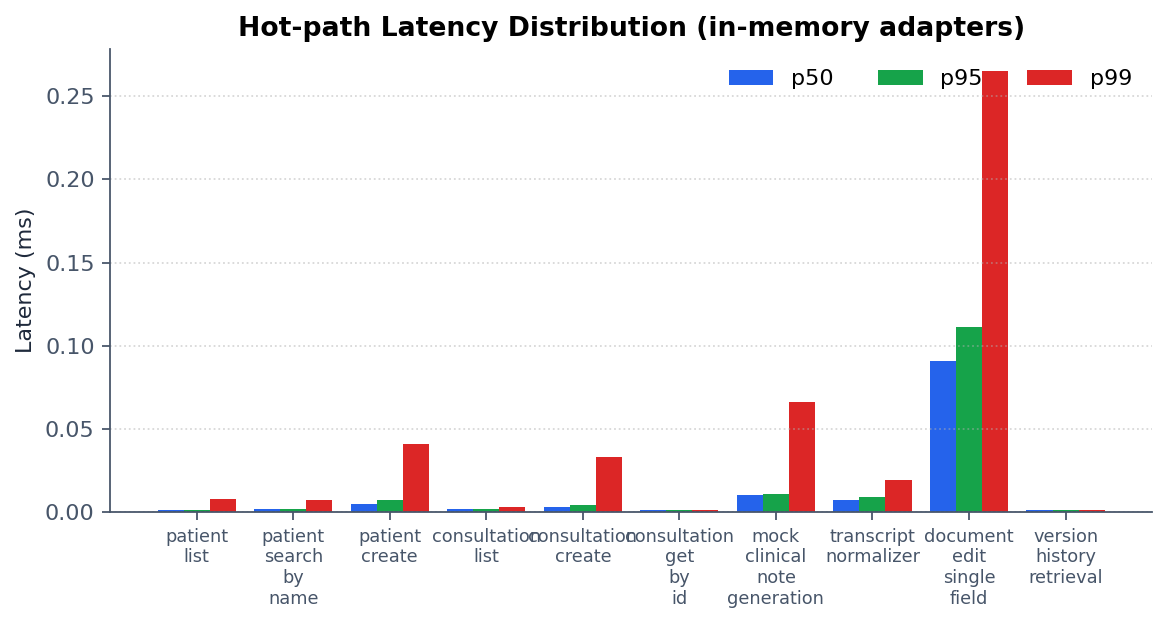
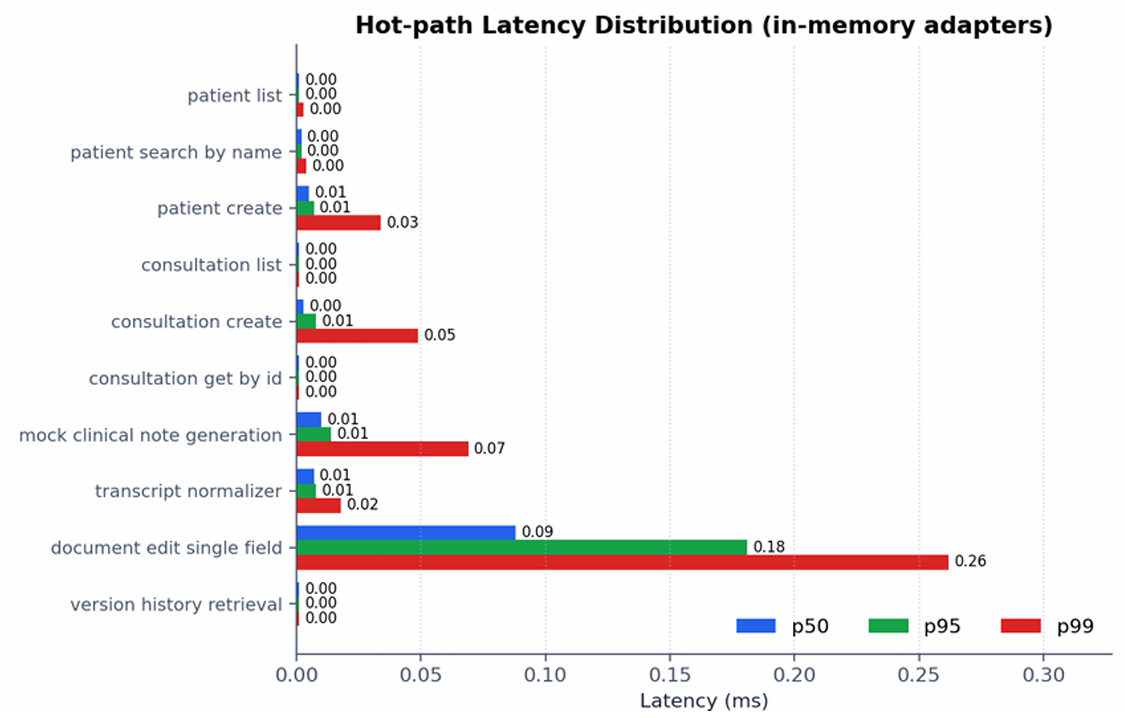
Update report validation discussion and references

diff --git a/overleaf-report/sections/07-validation.tex b/overleaf-report/sections/07-validation.tex
@@ -33,7 +33,53 @@ Manual UI & 10 & Login, PDF download, speaker layout, logout, and browser-level 
 \label{tab:validation-tiers}
 \end{table}
 
-The module-level inventory is retained in Appendix~\ref{app:test-inventory}. Raw benchmark numbers are listed in Appendix~\ref{app:benchmark-results}, the manual browser checklist in Appendix~\ref{app:manual-ui}, the hallucination matrix in Appendix~\ref{app:hallucination-matrix}, and the hardware envelope in Appendix~\ref{app:hardware-envelope}.
+The module-level inventory is retained in Appendix~\ref{app:test-inventory}. Raw benchmark numbers are listed in Appendix~\ref{app:benchmark-results}, the manual browser checklist in Appendix~\ref{app:manual-ui}, the AI safety matrix in Appendix~\ref{app:ai-safety-matrix}, and the hardware envelope in Appendix~\ref{app:hardware-envelope}.
+
+\begin{figure}[htbp]
+\centering
+\optionalgraphic[width=0.78\textwidth]{assets/charts/test_distribution.png}
+\caption{Automated validation distribution across unit, integration, smoke, stress, and benchmark tiers.}
+\label{fig:test-distribution}
+\end{figure}
+
+\subsection{Requirements Coverage}
+
+The validation evidence is tied back to the requirements from Section~4 in Table~\ref{tab:requirements-coverage}. The table distinguishes requirements that were fully implemented from requirements that were deliberately left as deployment hardening or future work, so the report does not overclaim beyond the implemented system.
+
+\begingroup
+\scriptsize
+\begin{longtable}{@{}P{0.15\textwidth}P{0.18\textwidth}P{0.18\textwidth}P{0.37\textwidth}@{}}
+\caption{Requirements traceability and validation evidence.}\label{tab:requirements-coverage}\\
+\TableTopRule
+\rowcolor{VertexTableBlue}
+\VertexTableHead{Requirement} & \VertexTableHead{Status} & \VertexTableHead{Evidence} & \VertexTableHead{How the report addresses it} \\
+\TableMidRule
+\rowcolor{VertexTableStripe}
+F-1 & Implemented & Sections 5--7 & Doctor dashboard, patient selection, consultation creation, and list views support the consultation queue. \\
+F-2--F-3 & Implemented & Sections 5--7 & Browser audio capture and the Faster-Whisper sidecar provide local speech-to-text processing. \\
+\rowcolor{VertexTableStripe}
+F-4--F-5 & Implemented & Sections 5--7 & Local LLM orchestration generates structured clinical notes and prescription drafts for doctor review. \\
+F-6 & Implemented & Sections 5--7, Appendix~\ref{app:manual-ui} & The review page lets doctors edit, approve, or reject generated clinical content. \\
+\rowcolor{VertexTableStripe}
+F-7--F-8 & Implemented with deployment caveat & Sections 6--7 & ReportLab PDF generation and SMTP email delivery are implemented; production security depends on configured SMTP/TLS infrastructure. \\
+F-9--F-10 & Implemented & Sections 5--7 & Live transcript handling and past-consultation views are covered by the consultation and UI workflows. \\
+\rowcolor{VertexTableStripe}
+F-11 & Future extension & Section 8 & Cross-doctor sharing is supported conceptually by PDF/email boundaries but was not a primary implemented workflow. \\
+NF-1, NF-10 & Implemented & Sections 3, 5, 7 & Whisper and Ollama run locally, keeping AI processing away from third-party cloud services. \\
+\rowcolor{VertexTableStripe}
+NF-2 & Implemented & Sections 5--7 & JWT authentication, HTTP-only cookies, role checks, and security tests cover access control. \\
+NF-3 & Partially addressed & Sections 5, 8 & Password hashing and token handling are implemented; TLS termination, at-rest encryption, and service-to-service protection remain deployment hardening items. \\
+\rowcolor{VertexTableStripe}
+NF-4 & Implemented & Sections 5--6 & Ports, adapters, application services, repositories, and sidecar AI services keep components replaceable. \\
+NF-5--NF-6 & Implemented & Sections 5--7 & MySQL/MongoDB persistence, versioning, and audit logging support reliable storage and traceability. \\
+\rowcolor{VertexTableStripe}
+NF-7--NF-8 & Implemented and measured & Table~\ref{tab:validation-tiers}, Appendix~\ref{app:benchmark-results} & Manual UI checks and benchmark/hardware results validate usability concerns and performance limits. \\
+NF-9 & Future extension & Section 8 & Retention configuration and secure deletion are identified as governance extensions. \\
+\rowcolor{VertexTableStripe}
+NF-11 & Implemented by workflow design & Sections 1, 5, 8 & The doctor remains the final decision-maker before approval, PDF export, or patient communication. \\
+\TableBottomRule
+\end{longtable}
+\endgroup
 
 \subsection{LLM Hallucination Resistance}
 
@@ -47,13 +93,7 @@ Three failure classes are explicitly guarded:
   \item \textbf{Cross-consultation leakage:} text from a previous patient surfacing in the current note is prevented by stateless per-call prompts and verified by isolation tests that interleave generations from two synthetic patients.
 \end{enumerate}
 
-\texttt{test\_real\_llm.py} re-asserts the same invariants against the live Ollama daemon and falls back gracefully to the mock when the daemon is unreachable.
-
-\begin{figure}[htbp]
-\centering
-\optionalgraphic[width=0.72\textwidth]{assets/charts/hallucination_matrix.png}
-\caption{Hallucination guard matrix.}
-\end{figure}
+\texttt{test\_real\_llm.py} re-asserts the same invariants against the live Ollama daemon and falls back gracefully to the mock when the daemon is unreachable. The detailed AI and ASR safety matrix is kept in Appendix~\ref{app:ai-safety-matrix}.
 
 \subsection{ASR Robustness}
 
@@ -88,6 +128,13 @@ qwen3:4b & 4.0 B & 3.2 GB & 3.6 s & 71\% & 6/30 & Fast fallback, but too small f
 \label{tab:model-selection}
 \end{table}
 
+\begin{figure}[htbp]
+\centering
+\optionalgraphic[width=0.82\textwidth]{assets/charts/model_comparison.png}
+\caption{Model comparison visualization for the evaluated local Ollama candidates.}
+\label{fig:model-comparison}
+\end{figure}
+
 Qwen3:8b was selected because it achieved 100\% JSON validity and zero hallucinations within the 8 GB VRAM budget. Phi3:medium was more accurate than smaller models but exceeded the budget, while the 4B model traded too much accuracy for speed. The choice is not hard-wired: the deployed model is read from \texttt{OLLAMA\_MODEL}, and \texttt{test\_real\_llm.py} re-validates whichever model Ollama is currently serving.
 
 \subsection{Hardware Constraints and Deployment Envelope}
@@ -102,7 +149,14 @@ Latency varies by host, and the Surface and MacBook are roughly three to four ti
 
 The benchmark suite uses Python's \texttt{time.perf\_counter} to time 10 hot paths over 100 to 500 iterations each, recording p50, p95, and p99 latency. Each measurement has an explicit upper-bound assertion so a regression fails the build instead of silently degrading performance.
 
-The numerical results are listed in Appendix~\ref{app:benchmark-results}, which keeps the evidence inspectable without adding another chart to the main report.
+The numerical results are listed in Appendix~\ref{app:benchmark-results}, and Figure~\ref{fig:benchmark-latency} summarizes the latency distribution visually.
+
+\begin{figure}[htbp]
+\centering
+\optionalgraphic[width=0.84\textwidth]{assets/charts/benchmark_latency.png}
+\caption{Benchmark latency distribution for the measured hot-path operations.}
+\label{fig:benchmark-latency}
+\end{figure}
 
 The results are favorable: every operation finishes in well under a millisecond at the 99th percentile. This indicates that the application layer is not the bottleneck. Production latency will be higher because real MySQL and MongoDB adapters add network and disk I/O, but the benchmark establishes that the domain logic imposes negligible overhead.
 

diff --git a/overleaf-report/sections/08-discussion.tex b/overleaf-report/sections/08-discussion.tex
@@ -1,0 +1,13 @@
+\section{Discussion}
+
+The group is satisfied with the final outcome because Med Flow now demonstrates the full consultation-support path promised by the project scope: a doctor can work with patient information, start a consultation, capture audio, obtain a transcript, generate structured clinical material, review and edit the AI output, approve the result, export a PDF, and send follow-up communication. The implementation also keeps the central safety boundary visible: AI assists the workflow, but the doctor remains responsible for approval and communication.
+
+The most important project decision was narrowing the system around consultation documentation rather than trying to build a complete outpatient administration platform. Scheduling, advanced retention governance, and production deployment hardening were treated as integration or future-work topics. This focus made the core workflow achievable within the semester while still aligning with the requirements for local AI processing, role-based access, modularity, persistence, auditability, and validation.
+
+The sprint-based workflow supported that focus. Trello gave the group a practical way to split work across authentication, patient and consultation management, transcription, LLM orchestration, PDF generation, email, UI, and testing. The architecture also benefited from component-based thinking: FastAPI routes, application services, domain contracts, repository ports, infrastructure adapters, and local AI services can be replaced or extended independently. This modularity is particularly important because transcription and LLM tools evolve quickly, and the selected model should remain a configuration choice rather than a fixed architectural assumption.
+
+The validation results are strong for a semester project. The automated suite covers unit, integration, smoke, stress, and benchmark tests, while manual UI checks cover browser interactions that were not yet automated. The test distribution, model comparison, and benchmark figures in Section~7 make the evidence easier to inspect, and the requirement traceability table explains which requirements are implemented, partially addressed, or intentionally reserved for future work.
+
+The main limitation is deployment maturity. Local execution reduces dependence on cloud AI providers, but a real clinic deployment would still need TLS termination, stronger at-rest encryption, service-to-service authentication, retention enforcement, backup policy, and operational monitoring. OWASP guidance for service-oriented systems recommends treating these controls as part of the deployed architecture rather than as afterthoughts~[12]. Future iterations should also replace the manual UI checklist with Playwright end-to-end tests, evaluate load behavior against real MySQL and MongoDB deployments, and validate transcription quality against an annotated clinical audio corpus.
+
+In summary, Med Flow does not claim to be a certified medical product. It is a working and validated software engineering solution that shows how local AI, component-based architecture, and human-in-the-loop review can be combined into a privacy-conscious clinical documentation workflow.

diff --git a/overleaf-report/sections/02-methodology.tex b/overleaf-report/sections/02-methodology.tex
@@ -21,6 +21,12 @@ GitHub was used to share and manage the code, allowing the team to collaborate e
 \caption{Sprint planning and Trello workflow overview.}
 \end{figure}
 
+\subsection{Scope Context and Source Selection}
+
+During early scoping, the team compared several possible project directions with public SDU and technology sources. The supplied SDU researcher pages for Jacek Fiutowski\footnote{\url{https://portal.findresearcher.sdu.dk/en/persons/fiutowski}}, Casper H\o{}gh Kunstmann\footnote{\url{https://portal.findresearcher.sdu.dk/en/persons/casper-h\%C3\%B8gh-kunstmann}}, and Ayoub Laghrissi\footnote{\url{https://portal.findresearcher.sdu.dk/en/persons/ayoub-laghrissi}} show research activity around nanophotonics, sensing, imaging, microfluidics, nanomaterials, and hyperspectral or spectroscopic monitoring~[6,7,10]. NanoChem describes nanoscale chemical imaging facilities and use cases in materials, environmental, and medico-oriented analysis\footnote{\url{https://www.nanochem.dk/}}~[8]. The imec SNAPSCAN VNIR page describes a hyperspectral evaluation system for laboratory research, food inspection, medical imaging, and material characterization\footnote{\url{https://www.imechyperspectral.com/en/cameras/snapscan-vnir}}~[9], while the DeepHS-Fruit-v2 dataset listing\footnote{\url{https://paperswithcode.com/dataset/deephs-fruit-v2}} represents a dataset-driven benchmark context~[11].
+
+These sources are relevant to the semester context because they illustrate data-intensive sensing and AI workflows, but they are not used as evidence for Med Flow's clinical performance. Instead, they helped clarify the difference between an imaging-model project and this report's actual focus: a local-first software system for consultation audio, transcription, doctor review, document generation, and auditability.
+
 \subsection{Application of Course Knowledge}
 
 \begin{itemize}

diff --git a/overleaf-report/sections/references.tex b/overleaf-report/sections/references.tex
@@ -7,4 +7,11 @@
   \item European Union. ``General Data Protection Regulation, Article 9: Processing of special categories of personal data.'' Available at: \href{https://gdpr-info.eu/art-9-gdpr/}{GDPR Article 9 text}.
   \item U.S. Department of Health and Human Services. ``Summary of the HIPAA Privacy Rule.'' Available at: \href{https://www.hhs.gov/hipaa/for-professionals/privacy/laws-regulations/index.html}{HHS Privacy Rule summary}.
   \item National Institute of Standards and Technology. ``AI Risk Management Framework.'' Available at: \href{https://www.nist.gov/itl/ai-risk-management-framework}{NIST AI RMF}.
+  \item University of Southern Denmark. ``Jacek Fiutowski.'' SDU Research Portal. Available at: \href{https://portal.findresearcher.sdu.dk/en/persons/fiutowski}{SDU researcher profile}.
+  \item University of Southern Denmark. ``Casper H\o{}gh Kunstmann.'' SDU Research Portal. Available at: \href{https://portal.findresearcher.sdu.dk/en/persons/casper-h\%C3\%B8gh-kunstmann}{SDU researcher profile}.
+  \item NanoChem. ``Chemical imaging on the nanoscale.'' Available at: \href{https://www.nanochem.dk/}{NanoChem website}.
+  \item imec hyperspectral. ``SNAPSCAN VNIR evaluation system.'' Available at: \href{https://www.imechyperspectral.com/en/cameras/snapscan-vnir}{SNAPSCAN VNIR page}.
+  \item University of Southern Denmark. ``Ayoub Laghrissi.'' SDU Research Portal. Available at: \href{https://portal.findresearcher.sdu.dk/en/persons/ayoub-laghrissi}{SDU researcher profile}.
+  \item Papers with Code. ``DeepHS-Fruit-v2 dataset page.'' Available at: \href{https://paperswithcode.com/dataset/deephs-fruit-v2}{Papers with Code dataset listing}.
+  \item OWASP Foundation. ``Microservices Security Cheat Sheet.'' Available at: \href{https://cheatsheetseries.owasp.org/cheatsheets/Microservices_Security_Cheat_Sheet.html}{OWASP cheat sheet}.
 \end{enumerate}

diff --git a/overleaf-report/sections/09-conclusion.tex b/overleaf-report/sections/09-conclusion.tex
@@ -1,0 +1,11 @@
+\section{Conclusion}
+
+Med Flow demonstrates how a local-first, AI-assisted system can support outpatient consultation documentation without removing clinical responsibility from the doctor. The project combines consultation recording, speech-to-text transcription, structured clinical draft generation, Suggestive Mode, review and approval workflows, PDF generation, email communication, and auditability.
+
+The architecture is intentionally component-based. FastAPI routes, application services, domain contracts, infrastructure adapters, AI services, persistence layers, and notification tools are separated so the system can evolve without forcing every change through a monolithic structure. The dual-database design supports both reliable relational records and flexible document-oriented AI artifacts.
+
+The validation package supports the core engineering claims of the project. Automated tests, stress tests, benchmark tests, hallucination checks, ASR artifact checks, manual UI validation, and hardware-envelope testing show that the implementation is testable, measurable, and suitable as a foundation for further development. The requirement traceability table shows that the central must-have requirements were implemented, while deployment security, retention policy, cross-doctor sharing, and broader end-to-end automation remain clear future-work items.
+
+\begin{summarybox}
+The project is best understood as a controlled AI documentation workflow: local AI accelerates transcription, drafting, and review, while the doctor remains the final decision-maker for clinical approval, PDF export, and patient communication.
+\end{summarybox}

diff --git a/overleaf-report/sections/03-problem-analysis.tex b/overleaf-report/sections/03-problem-analysis.tex
@@ -24,6 +24,8 @@ The system also handles diverse data types: live audio metadata, raw speech-to-t
 
 Forcing these conflicting data types into one database model can create performance and maintainability problems. The system must therefore balance strict relational consistency for user administration and patient records with dynamic schema flexibility for AI data processing.
 
+The same architectural lesson appears in other data-intensive engineering domains: sensing and hyperspectral systems often separate acquisition hardware, preprocessing, model evaluation, and user-facing analysis instead of treating them as one undifferentiated block~[8,9,11]. Med Flow applies that principle to a healthcare-documentation workflow by separating audio capture, transcription, LLM orchestration, review, PDF generation, email, persistence, and audit concerns.
+
 \subsection{Problem Statement}
 
 Modern medical documentation tools place a heavy administrative burden on doctors, yet many cloud-based AI automation tools introduce data privacy risks and operational vulnerabilities. Traditional monolithic architectures and strict database structures are also poorly suited to the rapid evolution of local AI tools and the combination of structured and unstructured clinical datasets.

diff --git a/overleaf-report/sections/10-ai-tool-usage.tex b/overleaf-report/sections/10-ai-tool-usage.tex
@@ -1,0 +1,7 @@
+\section{Statement on AI Tool Usage}
+
+During preparation of this report, generative AI tools, including GitHub Copilot Chat, were used as assistants for LaTeX restructuring, wording improvements, consistency checks, and iterative feedback on section organization. AI assistance was also used to compare report text against project artifacts, validation outputs, and the requested formatting requirements.
+
+All AI-assisted text was reviewed, edited, and accepted by the group before inclusion. The authors remain responsible for the technical claims, source selection, implementation descriptions, validation results, limitations, and conclusions presented in the report. No AI tool was treated as an authoritative source for factual claims; factual references are listed in the References section or included as footnotes where appropriate.
+
+No real patient data was used in this report-writing process. The clinical examples and validation cases discussed in the report are project fixtures, synthetic examples, or implementation artifacts from the Med Flow codebase.

diff --git a/overleaf-report/sections/appendix-validation-details.tex b/overleaf-report/sections/appendix-validation-details.tex
@@ -115,15 +115,15 @@ TC010 & Logout & Trigger logout then revisit dashboard. & Cookie cleared and pro
 \end{longtable}
 \endgroup
 
-\section{Hallucination Test Matrix}
-\label{app:hallucination-matrix}
+\section{AI and ASR Safety Matrix}
+\label{app:ai-safety-matrix}
 
-The hallucination matrix maps known AI and ASR risk classes to mitigations and test evidence. It combines prompt-level grounding, schema validation, deterministic post-processing, and doctor approval.
+The safety matrix maps known LLM and ASR risk classes to mitigations and test evidence. It combines prompt-level grounding, schema validation, deterministic post-processing, and doctor approval.
 
 \begingroup
 \scriptsize
 \begin{longtable}{@{}P{0.18\textwidth}P{0.20\textwidth}P{0.31\textwidth}P{0.21\textwidth}@{}}
-\caption{Hallucination risk matrix and validation coverage.}\\
+\caption{AI and ASR safety validation coverage.}\\
 \TableTopRule
 \rowcolor{VertexTableBlue}
 \VertexTableHead{Risk class} & \VertexTableHead{Origin} & \VertexTableHead{Mitigation} & \VertexTableHead{Validation evidence} \\

diff --git a/overleaf-report/sections/01-introduction.tex b/overleaf-report/sections/01-introduction.tex
@@ -8,7 +8,7 @@ The scope is deliberately focused on the consultation and post-consultation work
 
 Medical consultations often require doctors to divide attention between the patient conversation and documentation. This can reduce consultation quality and delay follow-up material.
 
-Med Flow is motivated by the need for a privacy-conscious workflow where recording, transcription, draft generation, and follow-up communication support the doctor without removing clinical responsibility.
+Med Flow is motivated by the need for a privacy-conscious workflow where recording, transcription, draft generation, and follow-up communication support the doctor without removing clinical responsibility. The goal is to reduce clerical friction documented in outpatient EHR work~[1] while preserving the physician-review safeguards recommended for AI medical scribe workflows~[2].
 
 \subsection{Objective}
 

diff --git a/overleaf-report/sections/05-design.tex b/overleaf-report/sections/05-design.tex
@@ -22,7 +22,7 @@ Before writing code, the team sketched the main user journeys and screen layouts
 
 \begin{figure}[htbp]
 \centering
-\optionalgraphic[width=0.96\textwidth]{assets/img/fig2-Figma.png}
+\optionalgraphic[width=0.96\textwidth]{assets/img/FigmaMockUp.png}
 \caption{Initial Figma mockup of the doctor dashboard and consultation screens.}
 \end{figure}
 
@@ -36,7 +36,7 @@ The system was decomposed into loosely coupled components. Each component has a 
 
 \begin{figure}[htbp]
 \centering
-\optionalgraphic[width=0.98\textwidth]{assets/img/fig3-component.png}
+\optionalgraphic[width=0.98\textwidth]{assets/img/ComponentDiagram.png}
 \caption{Logical component diagram showing Med Flow components and interfaces.}
 \end{figure}
 

diff --git a/overleaf-report/sections/11-acknowledgements.tex b/overleaf-report/sections/11-acknowledgements.tex
@@ -1,0 +1,5 @@
+\section{Acknowledgements}
+
+The group would like to thank supervisor Riccardo Terrenzi for guidance, feedback, and support throughout the project. We also thank teacher Devender Kumar for organizing and supporting the semester project framework.
+
+We are grateful to the University of Southern Denmark and The Maersk Mc-Kinney Moller Institute for the academic setting in which this project was developed.

diff --git a/overleaf-report/main.tex b/overleaf-report/main.tex
@@ -23,7 +23,10 @@
 \input{sections/05-design}
 \input{sections/06-implementation}
 \input{sections/07-validation}
-\input{sections/08-conclusion}
+\input{sections/08-discussion}
+\input{sections/09-conclusion}
+\input{sections/10-ai-tool-usage}
+\input{sections/11-acknowledgements}
 \input{sections/references}
 
 \clearpage
